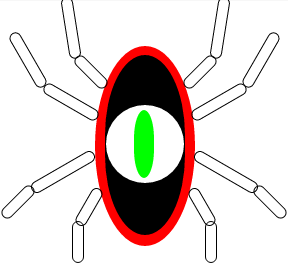
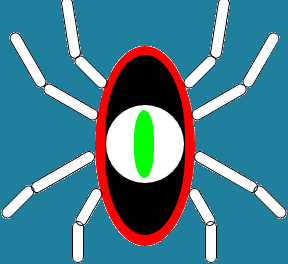
added adventure game and changed background colors of other project photos

diff --git a/index.html b/index.html
@@ -302,10 +302,10 @@
                             <h2>Project Title</h2>
                             <hr class="star-primary">
                             <img src="img/Untitled.png" height="500" width="500" class="img-responsive img-centered" alt="">
-                            <p>This is the monster I decided to create when our....counsolers I will call them, decided to give us the challenge of creating our own monster using CSS, and HTML. When I think of the word monster, the first thing that pop's right into my mind is a spider, so I dicided to make a spider's body.</p>
+                            <p>This is the monster I decided to create when our....teachers I will call them, decided to give us the challenge of creating our own monster using CSS, and HTML. When I think of the word monster, the first thing that pop's right into my mind is a spider, so I dicided to make a spider's body.</p>
                             <ul class="list-inline item-details">
                                 <li>Location of Code:
-                                    <strong><a href="http://codepen.io/FaStAsAfLaSh192/pen/KMMxJo">Codepen</a>
+                                    <strong><a href="http://codepen.io/FaStAsAfLaSh192/pen/KMMxJo">1150 Teachers</a>
                                     </strong>
                                 </li>
                                 <li>Date:
@@ -342,7 +342,7 @@
                             <p>I have quite a few friends who are very fond of Jack Skellington so, thinking of them, I decided to create my own Jack Skellington face using CSS, I had quite a blast creating it.</p>
                             <ul class="list-inline item-details">
                                 <li>Client:
-                                    <strong><a href="http://codepen.io/FaStAsAfLaSh192/pen/QEpMmW">Codepen</a>
+                                    <strong><a href="http://codepen.io/FaStAsAfLaSh192/pen/QEpMmW">Myself</a>
                                     </strong>
                                 </li>
                                 <li>Date:
@@ -379,7 +379,7 @@
                             <p>This is very simble Tic-Tac-Toe game which is for two human players. I might eventually decide to add some more CSS in to make it look nice</p>
                             <ul class="list-inline item-details">
                                 <li>Client:
-                                    <strong><a href="http://startbootstrap.com">Codepen</a>
+                                    <strong><a href="http://startbootstrap.com">Myself</a>
                                     </strong>
                                 </li>
                                 <li>Date:
@@ -412,19 +412,19 @@
                         <div class="modal-body">
                             <h2>Project Title</h2>
                             <hr class="star-primary">
-                            <img src="img/tribalflower.jpg" height="500" width="500" class="img-responsive img-centered" alt="">
-                            <p>Use this area of the page to describe your project. The icon above is part of a free icon set by <a href="https://sellfy.com/p/8Q9P/jV3VZ/">Flat Icons</a>. On their website, you can download their free set with 16 icons, or you can purchase the entire set with 146 icons for only $12!</p>
+                            <img src="img/adventuregame.png" height="150" width="600" class="img-responsive img-centered" alt="">
+                            <p>This is a simple Adventure Game created using HTML, CSS and JavaScript. I may do some more CSS styling to make it look better in the future, but right now i'm busy.</p>
                             <ul class="list-inline item-details">
                                 <li>Client:
-                                    <strong><a href="http://startbootstrap.com">Start Bootstrap</a>
+                                    <strong><a href="http://codepen.io/FaStAsAfLaSh192/pen/ezvNWV">Myself</a>
                                     </strong>
                                 </li>
                                 <li>Date:
-                                    <strong><a href="http://startbootstrap.com">April 2014</a>
+                                    <strong><a href="http://codepen.io/FaStAsAfLaSh192/pen/ezvNWV">June 29, 2016</a>
                                     </strong>
                                 </li>
                                 <li>Service:
-                                    <strong><a href="http://startbootstrap.com">Web Development</a>
+                                    <strong><a href="http://codepen.io/FaStAsAfLaSh192/pen/ezvNWV">Adventure Game</a>
                                     </strong>
                                 </li>
                             </ul>

diff --git a/css/freelancer.css b/css/freelancer.css
@@ -404,6 +404,7 @@ footer .footer-below {
     background-clip: border-box;
     -webkit-box-shadow: none;
     box-shadow: none;
+    background-color: #237F9D;
 }
 
 .portfolio-modal .modal-content h2 {
